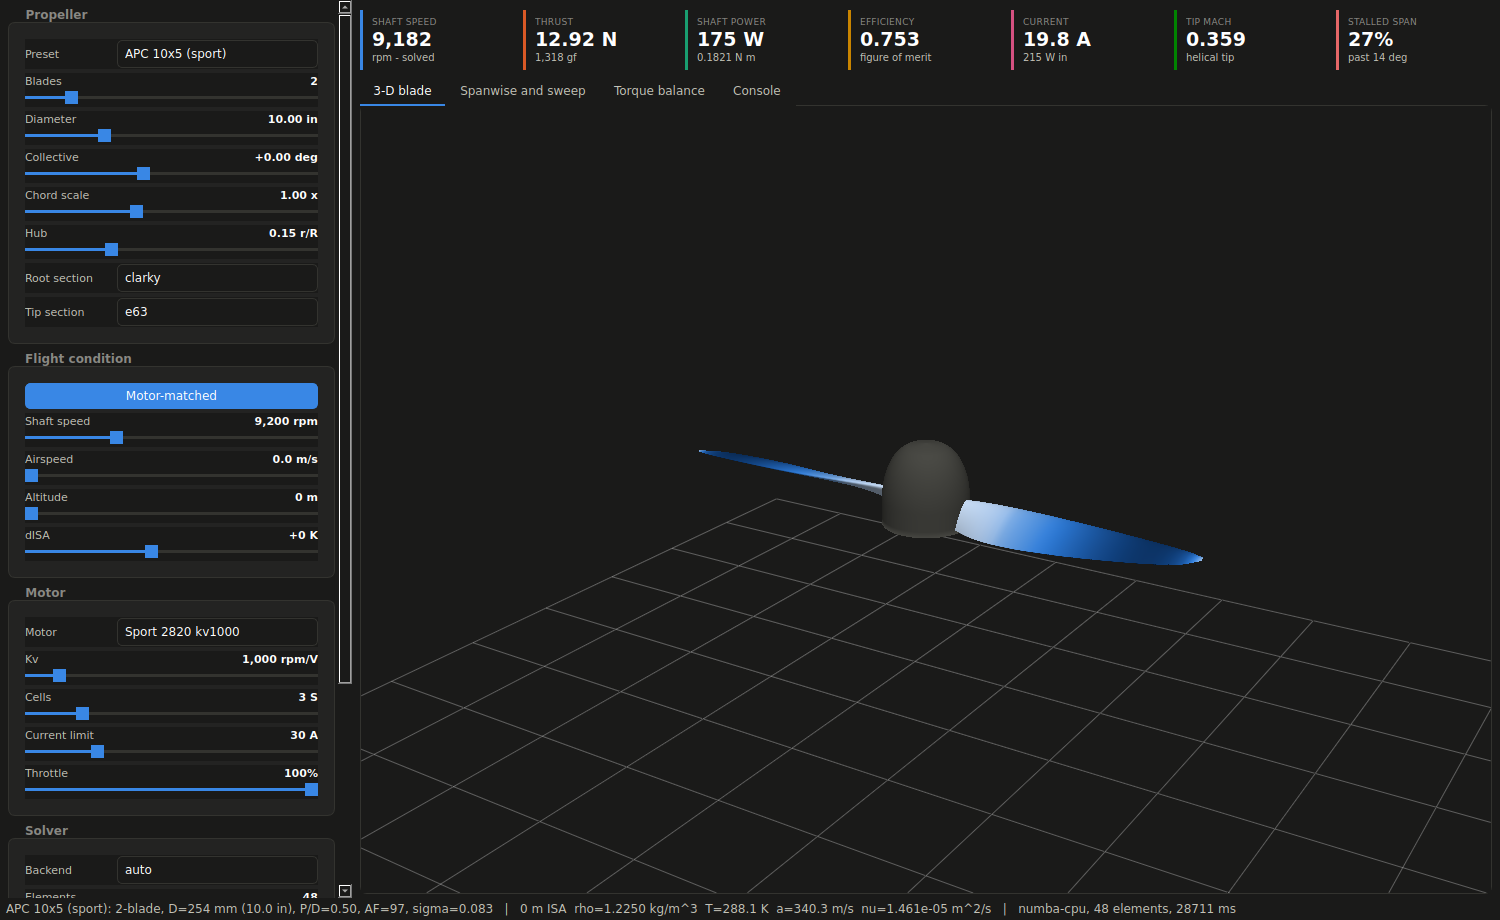
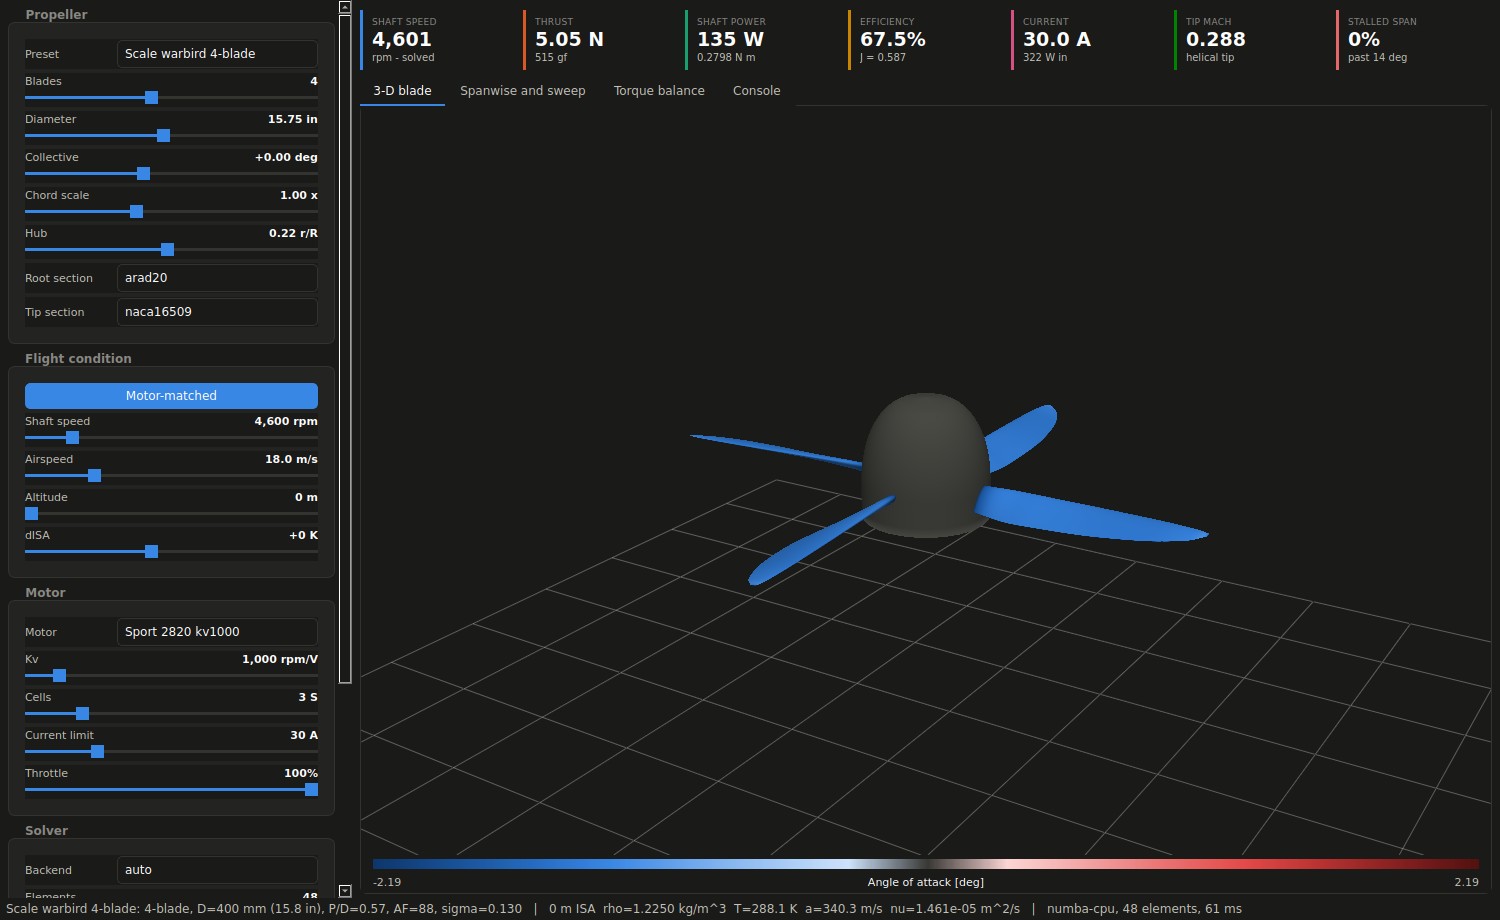
Add a colour legend to the 3-D view, plus GUI tests
The OpenGL viewport coloured the blade by a solver field with no scale
anywhere on screen, which makes the colour decoration rather than data.
ColorLegend paints the ramp, the field name and the numeric range under the
viewport, drawn from the same token arrays the mesh is coloured with so the
bar cannot disagree with the blade.

tests/test_gui.py drives the real Qt window (skipped when Qt or a display is
absent): the legend follows the selected field, a diverging field's range
stays centred on zero, adding collective slows the propeller and adds
thrust, fixed-RPM mode releases the slider, and the baked vertex lighting
keeps a sequential ramp readable.

165 tests pass; pyflakes clean.

Claude-Session: https://claude.ai/code/session_017rDQjSuvYciR1cGJMWfrTk

diff --git a/tests/test_gui.py b/tests/test_gui.py
@@ -1,0 +1,141 @@
+"""Desktop GUI tests.
+
+Skipped wholesale when Qt or a display is unavailable, which is the normal case
+on a headless CI box without Xvfb.  When they do run they exercise the real
+window: building it, driving the controls, and checking that the solver
+responds the way the physics says it should.
+"""
+
+from __future__ import annotations
+
+import os
+
+import numpy as np
+import pytest
+
+pytest.importorskip("PySide6")
+pytest.importorskip("pyqtgraph")
+
+os.environ.setdefault("QT_QPA_PLATFORM", "offscreen")
+
+
+@pytest.fixture(scope="module")
+def qapp():
+    from pyqtgraph.Qt import QtWidgets
+    app = QtWidgets.QApplication.instance() or QtWidgets.QApplication([])
+    yield app
+
+
+@pytest.fixture(scope="module")
+def window(qapp):
+    from propwash.gui.app import PropwashWindow
+    return PropwashWindow(dark=True, n_elements=24, mesh_span=16, mesh_chord=17)
+
+
+def test_window_builds_and_solves(window):
+    assert window.result is not None
+    assert window.result.thrust > 0.0
+    assert window.mesh is not None and window.mesh.n_faces > 0
+    assert window.match is not None and window.match.converged
+
+
+def test_metric_cards_are_populated(window):
+    for name, card in window.cards.items():
+        assert card.value.text() not in ("", None), name
+
+
+def test_colour_legend_tracks_the_selected_field(window):
+    """Colour without a scale is decoration, so the legend must follow the field."""
+    for index in range(window.c_field.count()):
+        window.c_field.setCurrentIndex(index)
+        window._refresh_view()
+        assert window.legend._label, window.c_field.currentData()
+        assert window.legend._ramp is not None
+        assert window.legend._vmax >= window.legend._vmin
+
+
+def test_diverging_field_legend_is_centred_on_zero(window):
+    window.c_field.setCurrentIndex(
+        [window.c_field.itemData(i) for i in range(window.c_field.count())].index("alpha"))
+    window._refresh_view()
+    assert window.legend._vmin == pytest.approx(-window.legend._vmax)
+
+
+def test_collective_slows_the_propeller_and_adds_thrust(window):
+    window.s_pitch.set_value(0.0, notify=True)
+    window._run_solve()
+    base_rpm, base_thrust = window.result.rpm, window.result.thrust
+
+    window.s_pitch.set_value(5.0, notify=True)
+    window._run_solve()
+    assert window.result.rpm < base_rpm, "more pitch must load the motor down"
+    assert window.result.thrust > base_thrust
+
+    window.s_pitch.set_value(0.0, notify=True)
+    window._run_solve()
+
+
+def test_fixed_rpm_mode_releases_the_slider(window):
+    window.b_match.setChecked(False)
+    window._run_solve()
+    assert window.match is None
+    assert window.s_rpm.slider.isEnabled()
+    window.s_rpm.set_value(7000.0, notify=True)
+    window._run_solve()
+    assert window.result.rpm == pytest.approx(7000.0, abs=60.0)
+
+    window.b_match.setChecked(True)
+    window._run_solve()
+    assert not window.s_rpm.slider.isEnabled()
+
+
+def test_labeled_slider_round_trips_engineering_units(qapp):
+    from propwash.gui.panels import LabeledSlider
+    seen = []
+    slider = LabeledSlider("Pitch", -12.0, 18.0, 0.0, 0.25, "deg",
+                           on_change=seen.append)
+    slider.set_value(4.25, notify=True)
+    assert slider.value == pytest.approx(4.25)
+    assert seen == [pytest.approx(4.25)]
+    assert "4.25" in slider.readout.text()
+
+    slider.set_value(1.0, notify=False)
+    assert slider.value == pytest.approx(1.0)
+    assert len(seen) == 1, "a muted set must not fire the callback"
+
+
+def test_vertex_lighting_keeps_colours_readable():
+    """pyqtgraph's shaded shader crushes a sequential ramp to near-black."""
+    from propwash.gui.gl_view import bake_lighting
+    colors = np.tile(np.array([[0.2, 0.5, 0.9, 1.0]], dtype=np.float32), (64, 1))
+    normals = np.tile(np.array([[0.0, 0.0, 1.0]], dtype=np.float32), (64, 1))
+    lit = bake_lighting(colors, normals)
+    assert lit.shape == colors.shape
+    assert (lit[:, :3] <= colors[:, :3] + 1e-6).all()
+    assert lit[:, :3].max() > 0.35 * colors[:, :3].max(), "ambient floor must survive"
+    assert np.allclose(lit[:, 3], 1.0)
+
+
+def test_gl_field_colours_mark_the_hub_neutral():
+    from propwash.bemt.core import OperatingPoint
+    from propwash.bemt.solver import PropellerSolver
+    from propwash.geometry import get_preset
+    from propwash.gui.gl_view import field_vertex_colors
+    from propwash.mesh import build_propeller_mesh
+    from propwash.mesh.loft import PART_BLADE
+
+    prop = get_preset("APC 10x5 (sport)")
+    result = PropellerSolver(prop).solve(OperatingPoint(rpm=8000.0))
+    mesh = build_propeller_mesh(prop, n_span=16, n_chord=17)
+
+    colors, label, vmin, vmax = field_vertex_colors(mesh, result, "dt_dr")
+    assert colors.shape == (mesh.n_vertices, 4)
+    assert label and vmax > vmin
+    # The hub colour is a warm grey (#b8b7b1), so test saturation rather than
+    # exact channel equality: it must be near-neutral, the blade must not be.
+    def saturation(rgb):
+        return rgb.max(axis=1) - rgb.min(axis=1)
+
+    hub = mesh.part != PART_BLADE
+    assert saturation(colors[hub, :3]).max() < 0.05, "hub must read as neutral"
+    assert saturation(colors[~hub, :3]).max() > 0.20, "blade must carry the ramp"

diff --git a/propwash/gui/panels.py b/propwash/gui/panels.py
@@ -173,3 +173,83 @@ def labelled(text: str, widget, dark: bool = True):
 
 
 __all__ = ["LabeledSlider", "MetricCard", "group", "labelled"]
+
+
+class ColorLegend:
+    """A horizontal colour bar for the 3-D view.
+
+    The OpenGL viewport colours the blade by a solver field, and colour without
+    a scale is decoration rather than data -- so the ramp, the field name and
+    the numeric range are drawn underneath it.  The ramp is painted from the
+    same token arrays the mesh is coloured with, so the bar cannot disagree
+    with the blade.
+    """
+
+    def __init__(self, dark: bool = True, height: int = 38) -> None:
+        QtCore, QtGui, QtWidgets = _qt()
+        self._QtCore, self._QtGui = QtCore, QtGui
+        self.dark = dark
+        self._ramp = None
+        self._label = ""
+        self._vmin = 0.0
+        self._vmax = 1.0
+
+        legend = self
+
+        class _Canvas(QtWidgets.QWidget):
+            def paintEvent(self, _event):
+                legend._paint(self)
+
+        self.widget = _Canvas()
+        self.widget.setFixedHeight(height)
+        self.widget.setSizePolicy(QtWidgets.QSizePolicy.Expanding,
+                                  QtWidgets.QSizePolicy.Fixed)
+
+    def set_field(self, ramp, label: str, vmin: float, vmax: float) -> None:
+        self._ramp = ramp
+        self._label = label
+        self._vmin = float(vmin)
+        self._vmax = float(vmax)
+        self.widget.update()
+
+    def set_dark(self, dark: bool) -> None:
+        self.dark = dark
+        self.widget.update()
+
+    def _paint(self, canvas) -> None:
+        import numpy as np
+        QtCore, QtGui = self._QtCore, self._QtGui
+        t = theme(self.dark)
+
+        painter = QtGui.QPainter(canvas)
+        painter.setRenderHint(QtGui.QPainter.Antialiasing, True)
+        w, h = canvas.width(), canvas.height()
+        pad = 12
+        bar_h = 10
+        bar = QtCore.QRectF(pad, 4, max(w - 2 * pad, 1), bar_h)
+
+        if self._ramp is not None and len(self._ramp):
+            gradient = QtGui.QLinearGradient(bar.left(), 0.0, bar.right(), 0.0)
+            ramp = np.asarray(self._ramp, dtype=float)
+            for i, rgb in enumerate(ramp):
+                gradient.setColorAt(i / max(len(ramp) - 1, 1),
+                                    QtGui.QColor.fromRgbF(*rgb[:3], 1.0))
+            painter.fillRect(bar, QtGui.QBrush(gradient))
+
+        painter.setPen(QtGui.QColor(t["text_secondary"]))
+        font = painter.font()
+        font.setPointSizeF(8.0)
+        painter.setFont(font)
+
+        text_rect = QtCore.QRectF(pad, bar.bottom() + 2, bar.width(), h - bar_h - 6)
+        painter.drawText(text_rect, QtCore.Qt.AlignLeft | QtCore.Qt.AlignVCenter,
+                         f"{self._vmin:,.3g}")
+        painter.drawText(text_rect, QtCore.Qt.AlignRight | QtCore.Qt.AlignVCenter,
+                         f"{self._vmax:,.3g}")
+        painter.setPen(QtGui.QColor(t["text"]))
+        painter.drawText(text_rect, QtCore.Qt.AlignHCenter | QtCore.Qt.AlignVCenter,
+                         self._label or "")
+        painter.end()
+
+
+__all__.append("ColorLegend")

diff --git a/propwash/gui/app.py b/propwash/gui/app.py
@@ -31,9 +31,9 @@ from ..geometry import BladeGeometry, get_preset, list_presets
 from ..mesh import build_propeller_mesh
 from ..motor import get_motor, list_motors
 from ..units import INCH
-from ..viz.palette import field_label, series_color, theme
+from ..viz.palette import field_label, field_ramp, series_color, theme
 from .gl_view import PropellerGLView
-from .panels import LabeledSlider, MetricCard, group, labelled
+from .panels import ColorLegend, LabeledSlider, MetricCard, group, labelled
 from .theme import configure_pyqtgraph, stylesheet
 
 DEG = math.pi / 180.0
@@ -77,6 +77,7 @@ class PropwashWindow:
         self.window.setStyleSheet(stylesheet(dark))
 
         self.view = PropellerGLView(dark)
+        self.legend = ColorLegend(dark)
         self._build_controls()
         self._build_plots()
         self._layout()
@@ -275,7 +276,14 @@ class PropwashWindow:
             row.addWidget(card.widget)
 
         tabs = W.QTabWidget()
-        tabs.addTab(self.view.widget, "3-D blade")
+
+        blade_tab = W.QWidget()
+        blade_col = W.QVBoxLayout(blade_tab)
+        blade_col.setContentsMargins(0, 0, 0, 0)
+        blade_col.setSpacing(0)
+        blade_col.addWidget(self.view.widget, 1)
+        blade_col.addWidget(self.legend.widget)
+        tabs.addTab(blade_tab, "3-D blade")
 
         span = W.QWidget()
         grid = W.QGridLayout(span)
@@ -424,8 +432,11 @@ class PropwashWindow:
         return self.c_field.currentData() or "dt_dr"
 
     def _refresh_view(self) -> None:
-        if self.mesh is not None:
-            self.view.set_field(self.result, self._field())
+        if self.mesh is None:
+            return
+        field = self._field()
+        label, vmin, vmax = self.view.set_field(self.result, field)
+        self.legend.set_field(field_ramp(field, self.dark), label, vmin, vmax)
 
     def _refresh_cards(self) -> None:
         r = self.result

diff --git a/README.md b/README.md
@@ -201,7 +201,7 @@ Against published static data for an APC 10×5 the model lands within roughly
 
 ```
 $ python -m pytest -q
-156 passed
+165 passed
 ```
 
 The full derivation, every correction, and an explicit list of what the model
